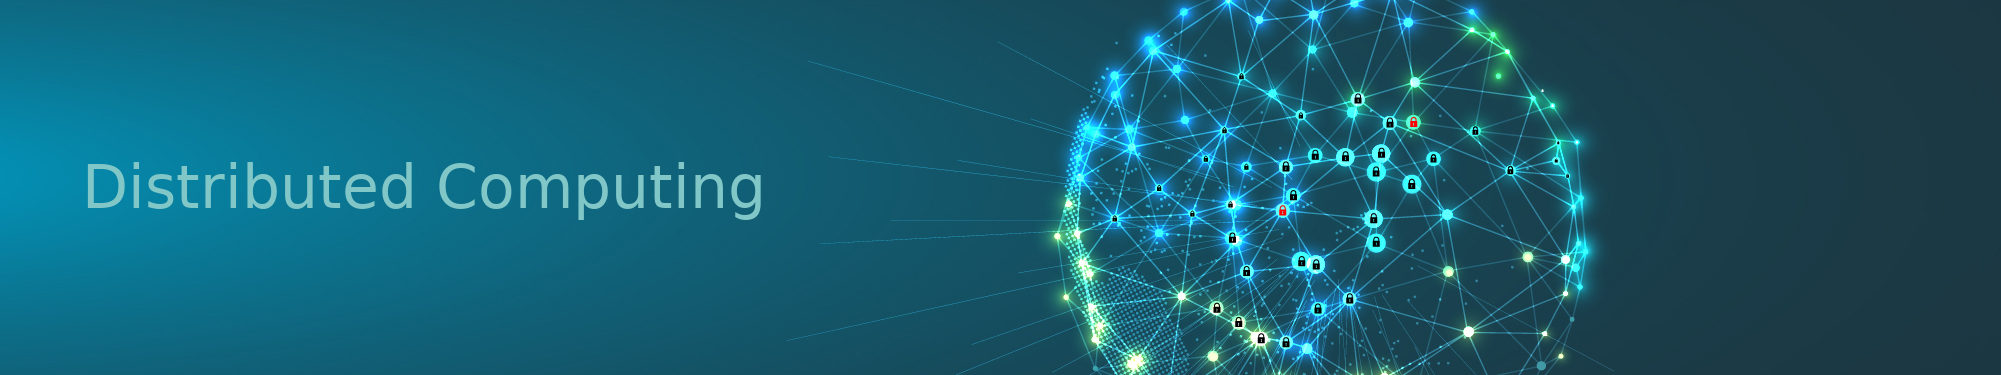
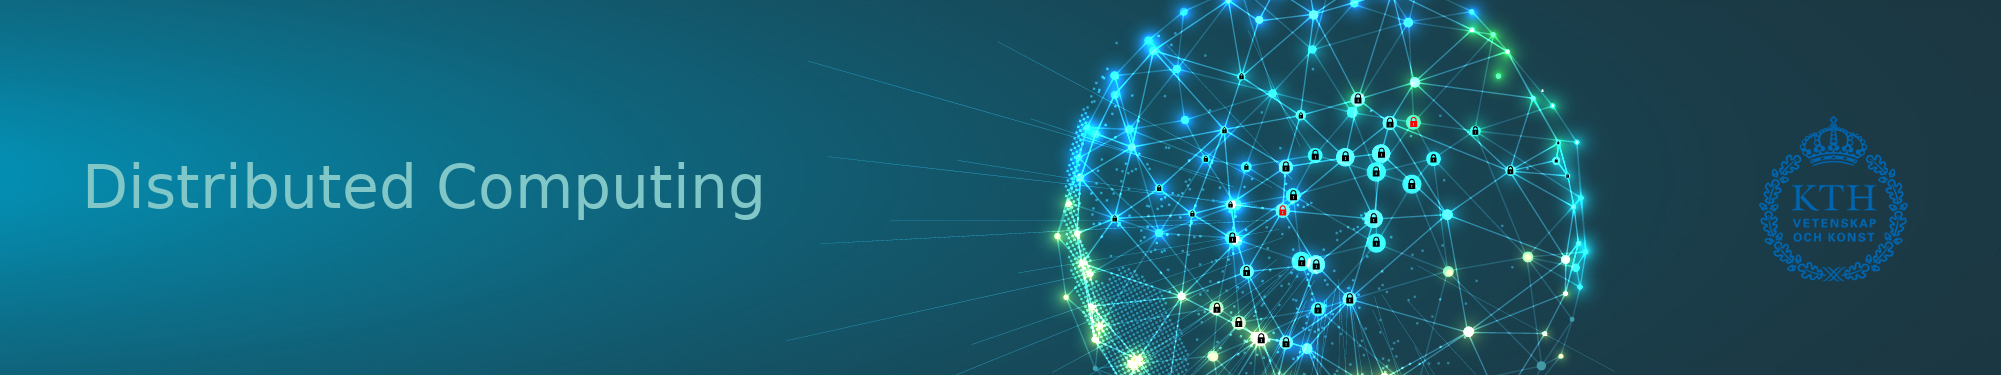
header

Changed region(s): [[0.8676, 0.3227, 0.9605, 0.7627]]

diff --git a/index.html b/index.html
@@ -24,14 +24,6 @@ DC@KTH is active in the following areas:
 
 </p>
 
-<center>
-<div style="width:830px; height:150px; overflow:auto;">
-<div>
-<a href="https://www.kth.se/"><img src="/images/kth.png" width="80"  align="center"/></a>
-</div>
-</div>
-</center>
-
 <!-- Default Statcounter code for dcatkth
 https://dcatkth.github.io/ -->
 <script type="text/javascript">
